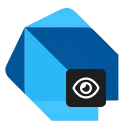
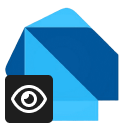
1.0.1

Changed region(s): [[0.0312, 0.5625, 0.4375, 0.9688], [0.5, 0.5312, 0.8438, 0.8438]]

diff --git a/README.md b/README.md
@@ -1,8 +1,8 @@
-![Dart Build Runner Watch Icon](icon.png)
+![Dart build_runner watch Icon](icon.png)
 
 [![Visual Studio Marketplace Version](https://img.shields.io/visual-studio-marketplace/v/ChargerDevs.dart-build-runner-watch.svg?label=VS%20Code%20Marketplace&logo=visual-studio-code)](https://marketplace.visualstudio.com/items?itemName=ChargerDevs.dart-build-runner-watch)
 
-# Dart Build Runner Watch - VS Code Extension
+# Dart build_runner watch - VS Code Extension
 
 A Visual Studio Code extension to run `dart run build_runner watch` for Dart projects.
 

diff --git a/CHANGELOG.md b/CHANGELOG.md
@@ -2,6 +2,12 @@
 
 All notable changes to this extension will be documented in this file.
 
+## [1.0.1] - 2024-11-06
+
+### Changed
+
+- Extension name and icon, updated.
+
 ## [1.0.0] - 2024-11-05
 
 ### Added
